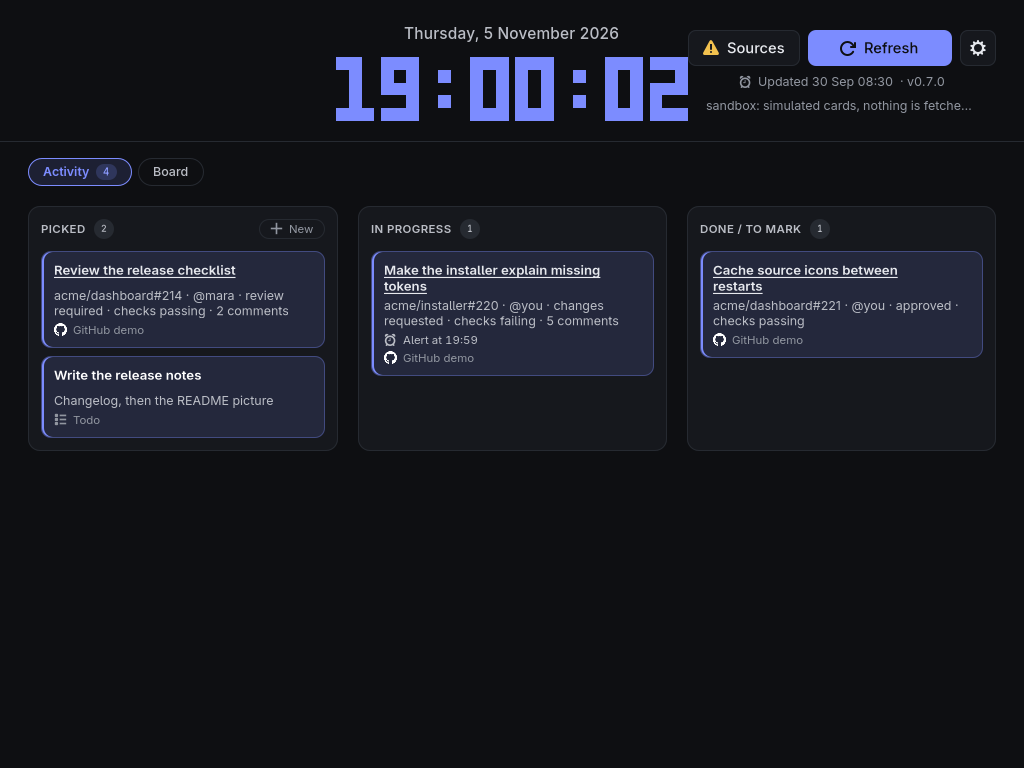
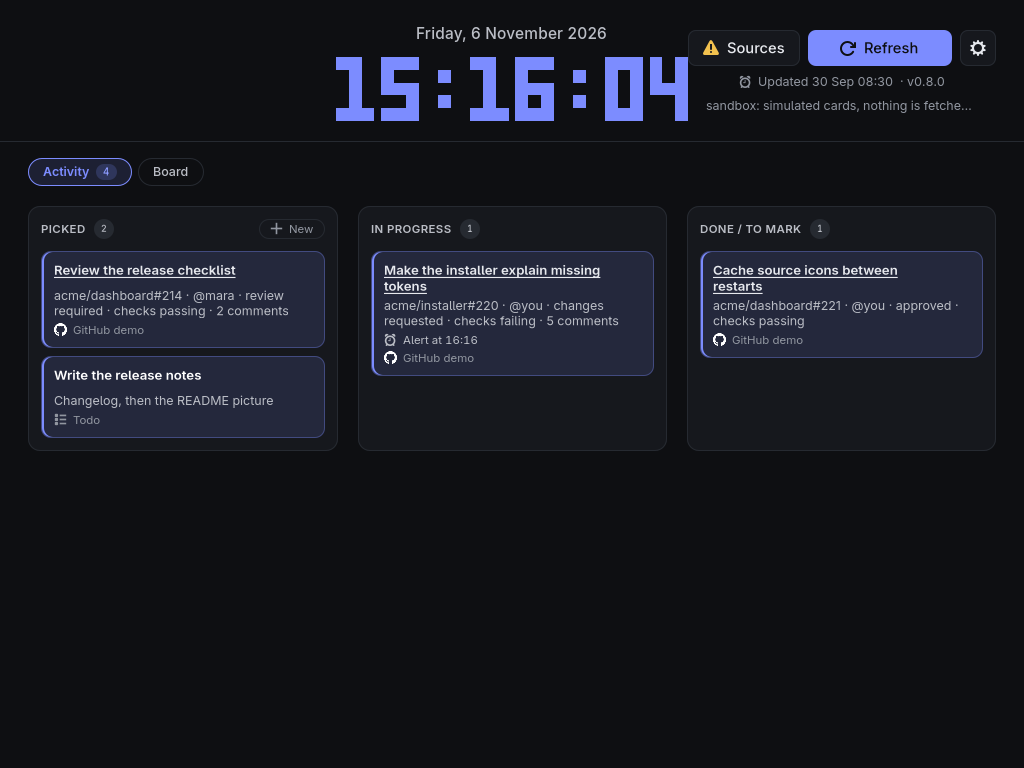
chore(release): prepare v0.8.0
Bump the workspace to 0.8.0, matching the Arch package, and turn
Unreleased into the 0.8.0 section: Omarchy's theme in Settings, the
window as a drop-down from Omarchy's bar, todos in the Activity, In
Progress in place of Doing, and every palette at 4.5:1. The README
pictures are taken again so the window shows the new version.

Changed region(s): [[0.4062, 0.0312, 0.5938, 0.1562], [0.625, 0.0625, 0.6875, 0.1562], [0.375, 0.0938, 0.4062, 0.125]]

diff --git a/CHANGELOG.md b/CHANGELOG.md
@@ -1,6 +1,8 @@
 # Changelog
 
-## Unreleased
+## 0.8.0
+
+The window can wear Omarchy's theme and drop down from Omarchy's bar, todos move into the Activity, and every palette reads at 4.5:1.
 
 ### Features
 
